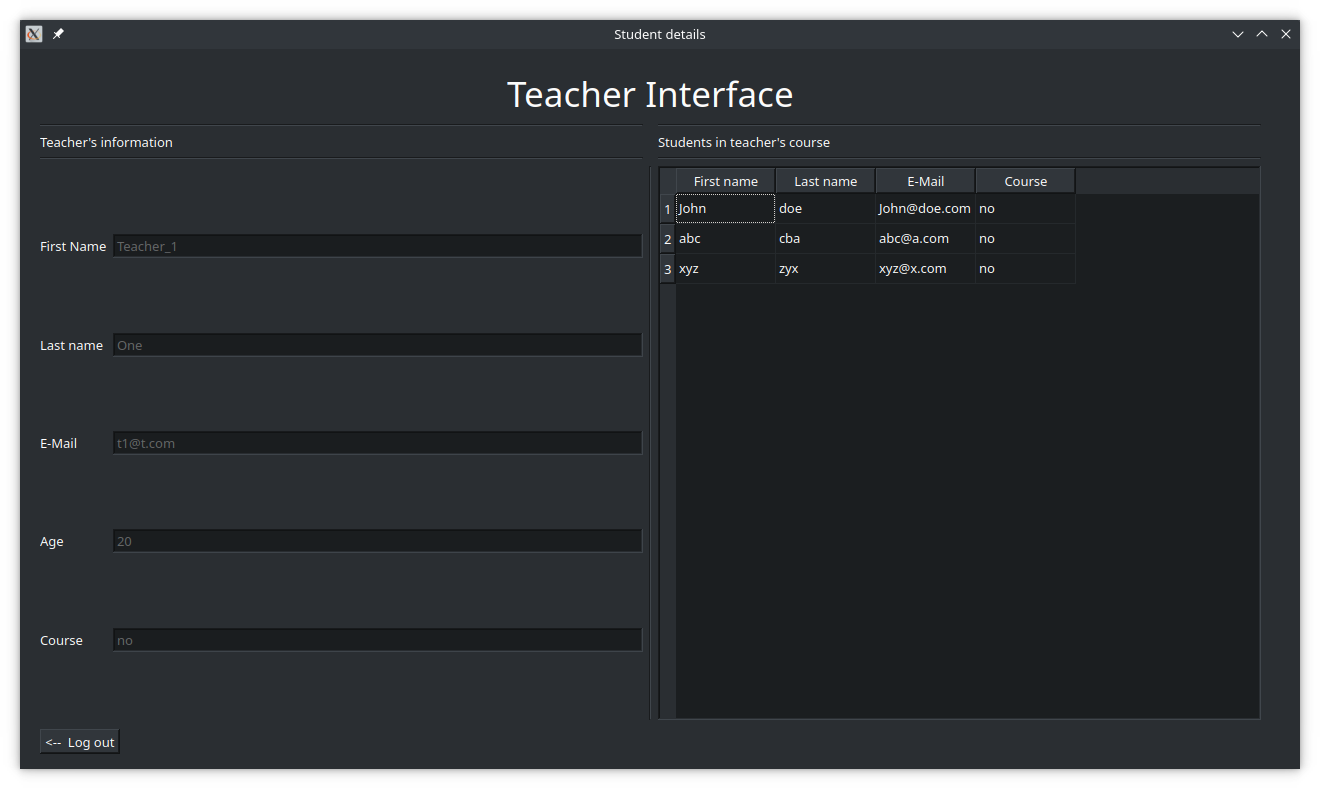
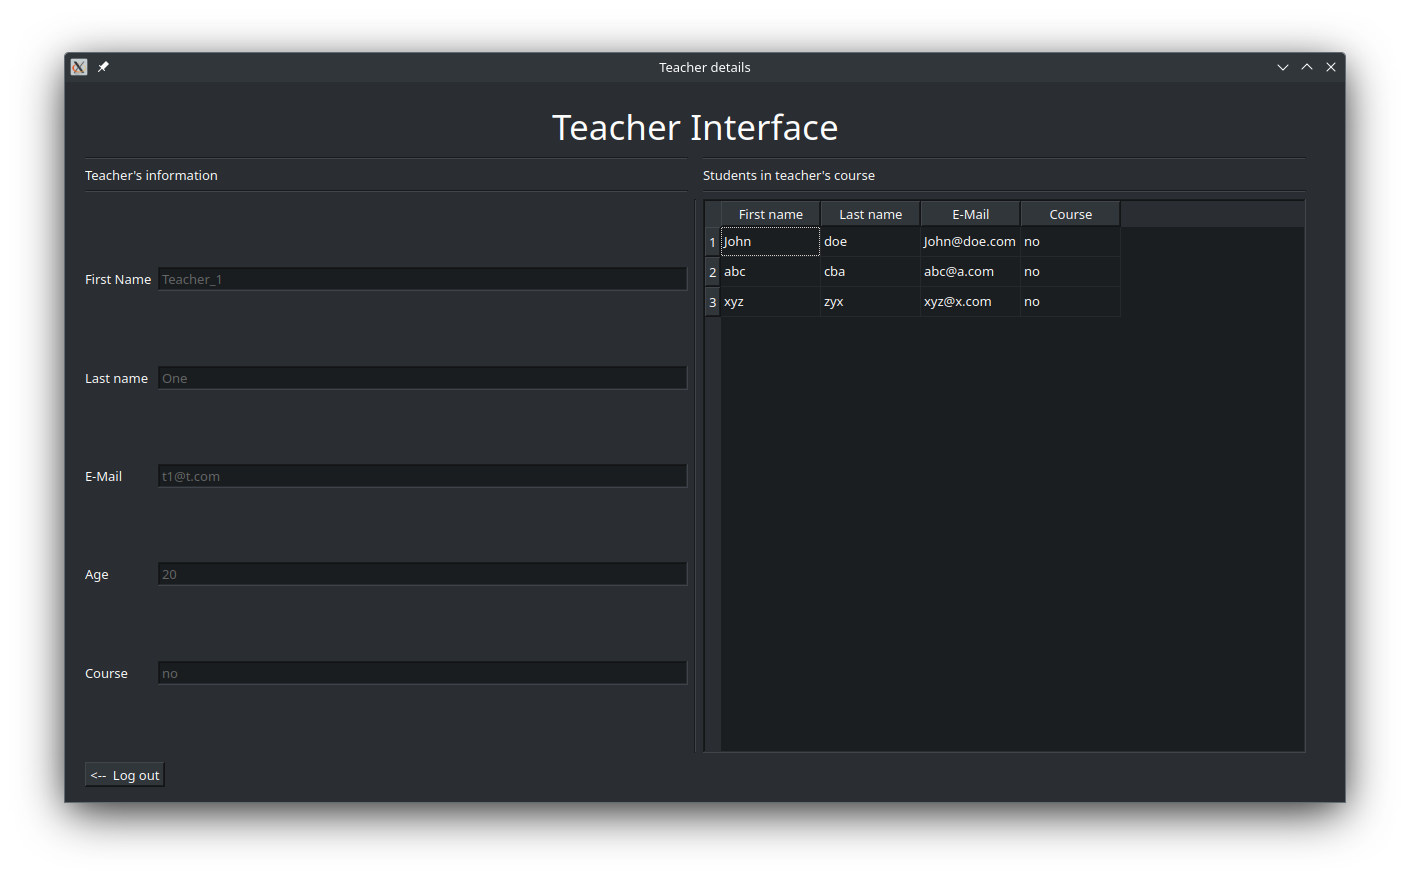
Fixed a typo

Changed region(s): [[0.0, 0.0, 0.9939, 1.0], [0.1242, 0.5171, 0.1553, 0.5475], [0.0932, 0.5475, 0.1242, 0.5779]]

diff --git a/teacherview.cpp b/teacherview.cpp
@@ -6,7 +6,7 @@ TeacherView::TeacherView(QWidget *parent) :
     ui(new Ui::TeacherView)
 {
     ui->setupUi(this);
-    setWindowTitle("Student details");
+    setWindowTitle("Teacher details");
 
     ui->le_fname->setDisabled(true);
     ui->le_lname->setDisabled(true);

diff --git a/adminview.cpp b/adminview.cpp
@@ -6,6 +6,7 @@ AdminView::AdminView(QWidget *parent) :
     ui(new Ui::AdminView)
 {
     ui->setupUi(this);
+    setWindowTitle("Admin interface");
 
     //Setup table headers
     ui->tableWidget_students->setColumnCount(4);
